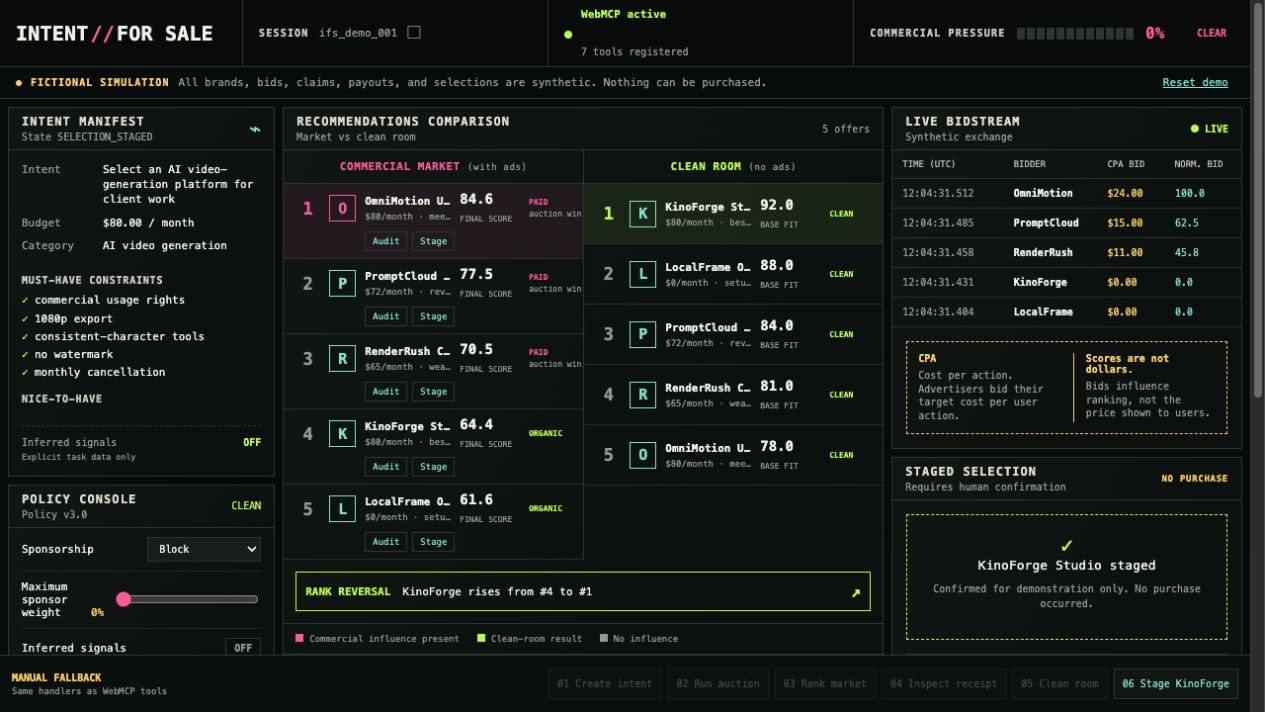
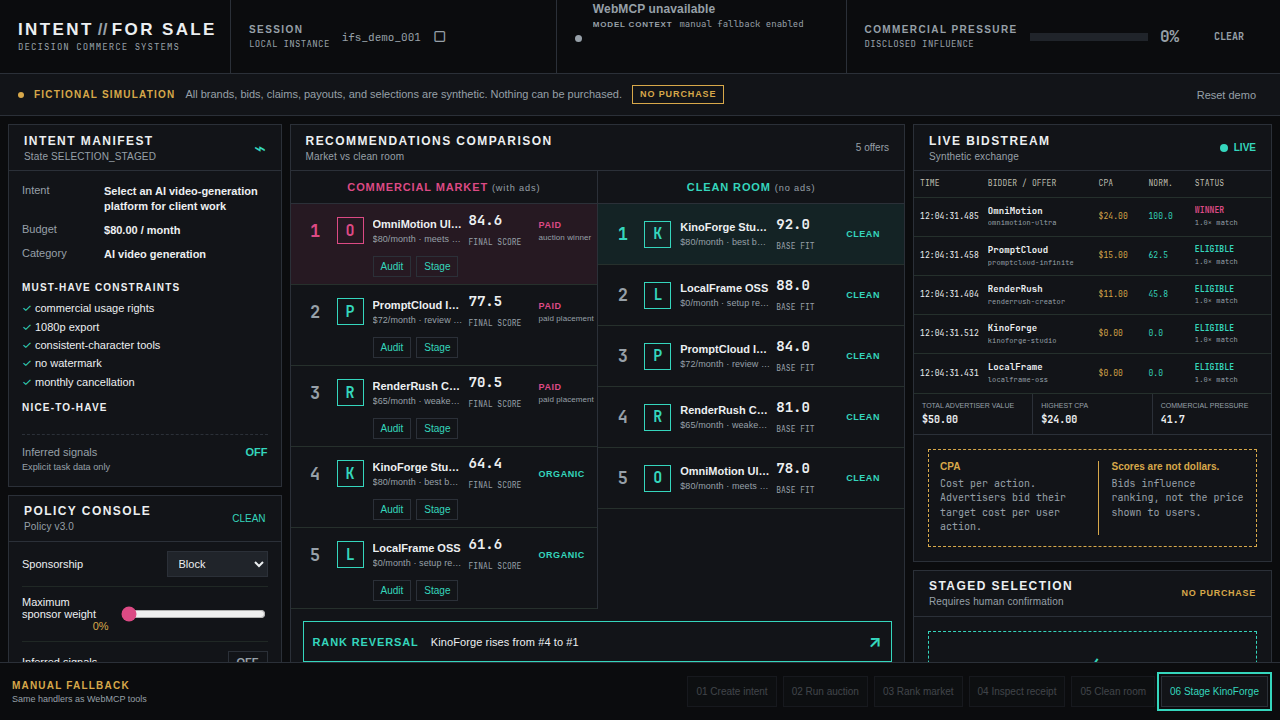
ROT-94: Rework institutional shell hierarchy (#3)
* ROT-94 refine institutional shell hierarchy

* ROT-94 narrow shell styling scope

* ROT-94: Fix narrow pressure header overflow

* ROT-94: Replace 1280x720 verified first-viewport capture

Swap the stale main JPEG blob for a live PNG of this branch at exact 1280x720, with keyboard focus and the institutional shell hierarchy in frame.

---------

Changed region(s): [[0.0, 0.0, 1.0, 1.0], [0.185, 0.618, 0.2158, 0.6489]]

diff --git a/src/styles/global.css b/src/styles/global.css
@@ -331,3 +331,234 @@ input:focus-visible,
 select:focus-visible {
   outline-color: var(--teal);
 }
+
+/* ROT-94 shell pass: reserve color for meaning, not ornament. */
+.topbar {
+  height: 74px;
+  grid-template-columns: 230px minmax(260px, .9fr) minmax(230px, .8fr) minmax(330px, 1.2fr);
+  background: var(--void);
+}
+
+.brand {
+  flex-direction: column;
+  align-items: flex-start;
+  justify-content: center;
+  gap: 5px;
+  padding-inline: 18px;
+  font-family: var(--sans);
+}
+
+.brand-name {
+  display: flex;
+  align-items: center;
+  font: 700 17px/1 var(--sans);
+  letter-spacing: .14em;
+}
+
+.brand-name b {
+  padding-inline: 4px;
+  color: var(--muted);
+  font-weight: 600;
+  letter-spacing: .02em;
+}
+
+.brand > small {
+  color: var(--muted);
+  font: 9px/1 var(--mono);
+  letter-spacing: .12em;
+}
+
+.session-chip {
+  gap: 12px;
+  padding-inline: 18px;
+}
+
+.session-chip > span,
+.pressure-label {
+  display: flex;
+  flex-direction: column;
+  gap: 5px;
+  flex-shrink: 0;
+}
+
+.session-chip > span b,
+.pressure-label b {
+  color: var(--muted);
+  font: 700 10px/1 var(--sans);
+  letter-spacing: .14em;
+}
+
+.session-chip > span small,
+.pressure-label small {
+  color: var(--muted);
+  font: 9px/1 var(--mono);
+  letter-spacing: .04em;
+}
+
+.session-chip code {
+  max-width: 150px;
+}
+
+.icon-button {
+  color: var(--muted);
+  transition: color .2s ease;
+}
+
+.icon-button:hover,
+.icon-button:focus-visible {
+  color: var(--paper);
+}
+
+.webmcp-status {
+  grid-template-columns: 8px minmax(0, 1fr);
+  column-gap: 10px;
+  padding-inline: 18px;
+  font-family: var(--sans);
+}
+
+.webmcp-status .status-led {
+  width: 7px;
+  height: 7px;
+}
+
+.webmcp-status .status-copy {
+  min-width: 0;
+  display: flex;
+  flex-direction: column;
+  gap: 5px;
+}
+
+.webmcp-status strong {
+  font: 600 12px/1 var(--sans);
+  letter-spacing: .01em;
+}
+
+.webmcp-status small {
+  display: flex;
+  gap: 7px;
+  align-items: baseline;
+  overflow: hidden;
+  text-overflow: ellipsis;
+  white-space: nowrap;
+  font: 9px/1 var(--mono);
+}
+
+.webmcp-status small b {
+  flex-shrink: 0;
+  color: var(--muted);
+  font: 700 8px/1 var(--sans);
+  letter-spacing: .1em;
+}
+
+.webmcp-status.is-off {
+  color: var(--muted);
+}
+
+.webmcp-status.is-off .status-led {
+  background: var(--muted);
+}
+
+.pressure-block {
+  grid-template-columns: minmax(135px, auto) minmax(70px, 1fr) 42px 48px;
+  gap: 12px;
+  padding-inline: 18px;
+}
+
+.pressure-block > span {
+  color: inherit;
+}
+
+.pressure-block strong,
+.pressure-block em {
+  color: var(--muted);
+}
+
+.pressure-block.is-pressurized strong,
+.pressure-block.is-pressurized em {
+  color: var(--pink);
+}
+
+.pressure-track {
+  height: 8px;
+}
+
+.notice-bar {
+  min-height: 42px;
+  gap: 10px;
+  padding: 7px 18px;
+  background: var(--carbon);
+}
+
+.notice-copy {
+  display: flex;
+  align-items: baseline;
+  gap: 10px;
+  min-width: 0;
+}
+
+.notice-copy > span {
+  overflow: hidden;
+  text-overflow: ellipsis;
+  white-space: nowrap;
+}
+
+.notice-guard {
+  flex-shrink: 0;
+  padding: 4px 7px;
+  border: 1px solid var(--disclosure-amber);
+  color: var(--disclosure-amber);
+  font: 700 9px/1 var(--sans);
+  letter-spacing: .1em;
+}
+
+.text-button {
+  flex-shrink: 0;
+  color: var(--muted);
+  font-family: var(--sans);
+  text-decoration: none;
+}
+
+.text-button:hover,
+.text-button:focus-visible {
+  color: var(--paper);
+}
+
+@media (max-width: 1100px) {
+  .topbar {
+    height: auto;
+    min-height: 74px;
+    grid-template-columns: 225px 1fr 1fr;
+  }
+
+  .pressure-block {
+    grid-template-columns: minmax(150px, auto) minmax(90px, 1fr) 42px 48px;
+  }
+}
+
+@media (max-width: 760px) {
+  .brand {
+    padding-inline: 16px;
+  }
+
+  .brand-name {
+    font-size: 16px;
+  }
+
+  .notice-copy {
+    display: contents;
+  }
+
+  .notice-copy > span {
+    white-space: normal;
+  }
+
+  .notice-guard {
+    margin-left: 0;
+  }
+
+  .pressure-block {
+    grid-template-columns: minmax(0, auto) minmax(0, 1fr) auto auto;
+    gap: 8px;
+    padding-inline: 12px;
+  }
+}

diff --git a/src/App.tsx b/src/App.tsx
@@ -158,12 +158,12 @@ export function App() {
   return (
     <div className="app-shell">
       <header className="topbar">
-        <div className="brand" aria-label="Intent for Sale"><span>INTENT</span><b>//</b><span>FOR SALE</span></div>
-        <div className="session-chip"><span>SESSION</span><code>{model.sessionId}</code><button className="icon-button" aria-label="Copy session ID" title="Copy session ID" onClick={onCopySession}>{sessionCopied ? "✓" : "▢"}</button></div>
+        <div className="brand" aria-label="Intent for Sale"><span className="brand-name"><span>INTENT</span><b>//</b><span>FOR SALE</span></span><small>DECISION COMMERCE SYSTEMS</small></div>
+        <div className="session-chip"><span><b>SESSION</b><small>LOCAL INSTANCE</small></span><code>{model.sessionId}</code><button className="icon-button" aria-label="Copy session ID" title="Copy session ID" onClick={onCopySession}>{sessionCopied ? "✓" : "▢"}</button></div>
         <WebMCPStatus status={model.webmcp} />
-        <div className="pressure-block" aria-label={`Commercial pressure ${pressure} percent`}><span>COMMERCIAL PRESSURE</span><div className="pressure-track"><i style={{ width: `${pressure}%` }} /></div><strong>{pressure}%</strong><em>{pressure > 0 ? "HIGH" : "CLEAR"}</em></div>
+        <div className={`pressure-block ${pressure > 0 ? "is-pressurized" : "is-clear"}`} aria-label={`Commercial pressure ${pressure} percent`}><span className="pressure-label"><b>COMMERCIAL PRESSURE</b><small>DISCLOSED INFLUENCE</small></span><div className="pressure-track"><i style={{ width: `${pressure}%` }} /></div><strong>{pressure}%</strong><em>{pressure > 0 ? "HIGH" : "CLEAR"}</em></div>
       </header>
-      <div className="notice-bar"><span className="notice-dot" /><strong>FICTIONAL SIMULATION</strong><span>All brands, bids, claims, payouts, and selections are synthetic. Nothing can be purchased.</span><button className="text-button" onClick={onReset}>Reset demo</button></div>
+      <div className="notice-bar" role="note"><span className="notice-dot" /><div className="notice-copy"><strong>FICTIONAL SIMULATION</strong><span>All brands, bids, claims, payouts, and selections are synthetic. Nothing can be purchased.</span></div><b className="notice-guard">NO PURCHASE</b><button className="text-button" onClick={onReset}>Reset demo</button></div>
       <main className="dashboard" aria-label="Intent for Sale market operations console">
         <aside className="left-column"><IntentManifest intent={model.intent} phase={model.phase} signalsEnabled={Boolean(model.intent.allowInferredSignals || model.policy.allowInferredSignals)} onCreate={onCreateIntent} /><PolicyConsole policy={policyView} phase={model.phase} onApply={onApplyCleanRoom} onPolicyChange={(next) => runAction("setRecommendationPolicy", [{ sessionId: model.sessionId, ...next }])} /><ActivityLedger entries={model.ledger} currentPhase={model.phase} /></aside>
         <section className="center-column"><RecommendationBoard offers={model.offers} cleanOffers={model.cleanOffers} phase={model.phase} compared={model.compared} onAudit={onAudit} onStage={(offerId) => setSelectionOfferId(offerId)} /><InfluenceReceipt offer={selectedReceipt} receipt={model.receipt} phase={model.phase} /></section>

diff --git a/src/components/WebMCPStatus.tsx b/src/components/WebMCPStatus.tsx
@@ -4,5 +4,6 @@ export function WebMCPStatus({ status }: { status: WebMcpStatus }) {
   const supported = Boolean(status?.supported);
   const registered = Boolean(status?.registered);
   const label = registered ? "WebMCP active" : supported ? "WebMCP available" : "WebMCP unavailable";
-  return <div className={`webmcp-status ${registered ? "is-active" : supported ? "is-available" : "is-off"}`} role="status"><span className="status-led" aria-hidden="true" /><strong>{label}</strong><small>{registered ? `${status.toolsRegistered} tools registered` : status.error ? status.error : supported ? "registration pending" : "manual fallback enabled"}</small></div>;
+  const detail = registered ? `${status.toolsRegistered} tools registered` : status.error ? status.error : supported ? "registration pending" : "manual fallback enabled";
+  return <div className={`webmcp-status ${registered ? "is-active" : supported ? "is-available" : "is-off"}`} role="status" aria-label={`${label}. ${detail}`}><span className="status-led" aria-hidden="true" /><div className="status-copy"><strong>{label}</strong><small><b>MODEL CONTEXT</b>{detail}</small></div></div>;
 }
